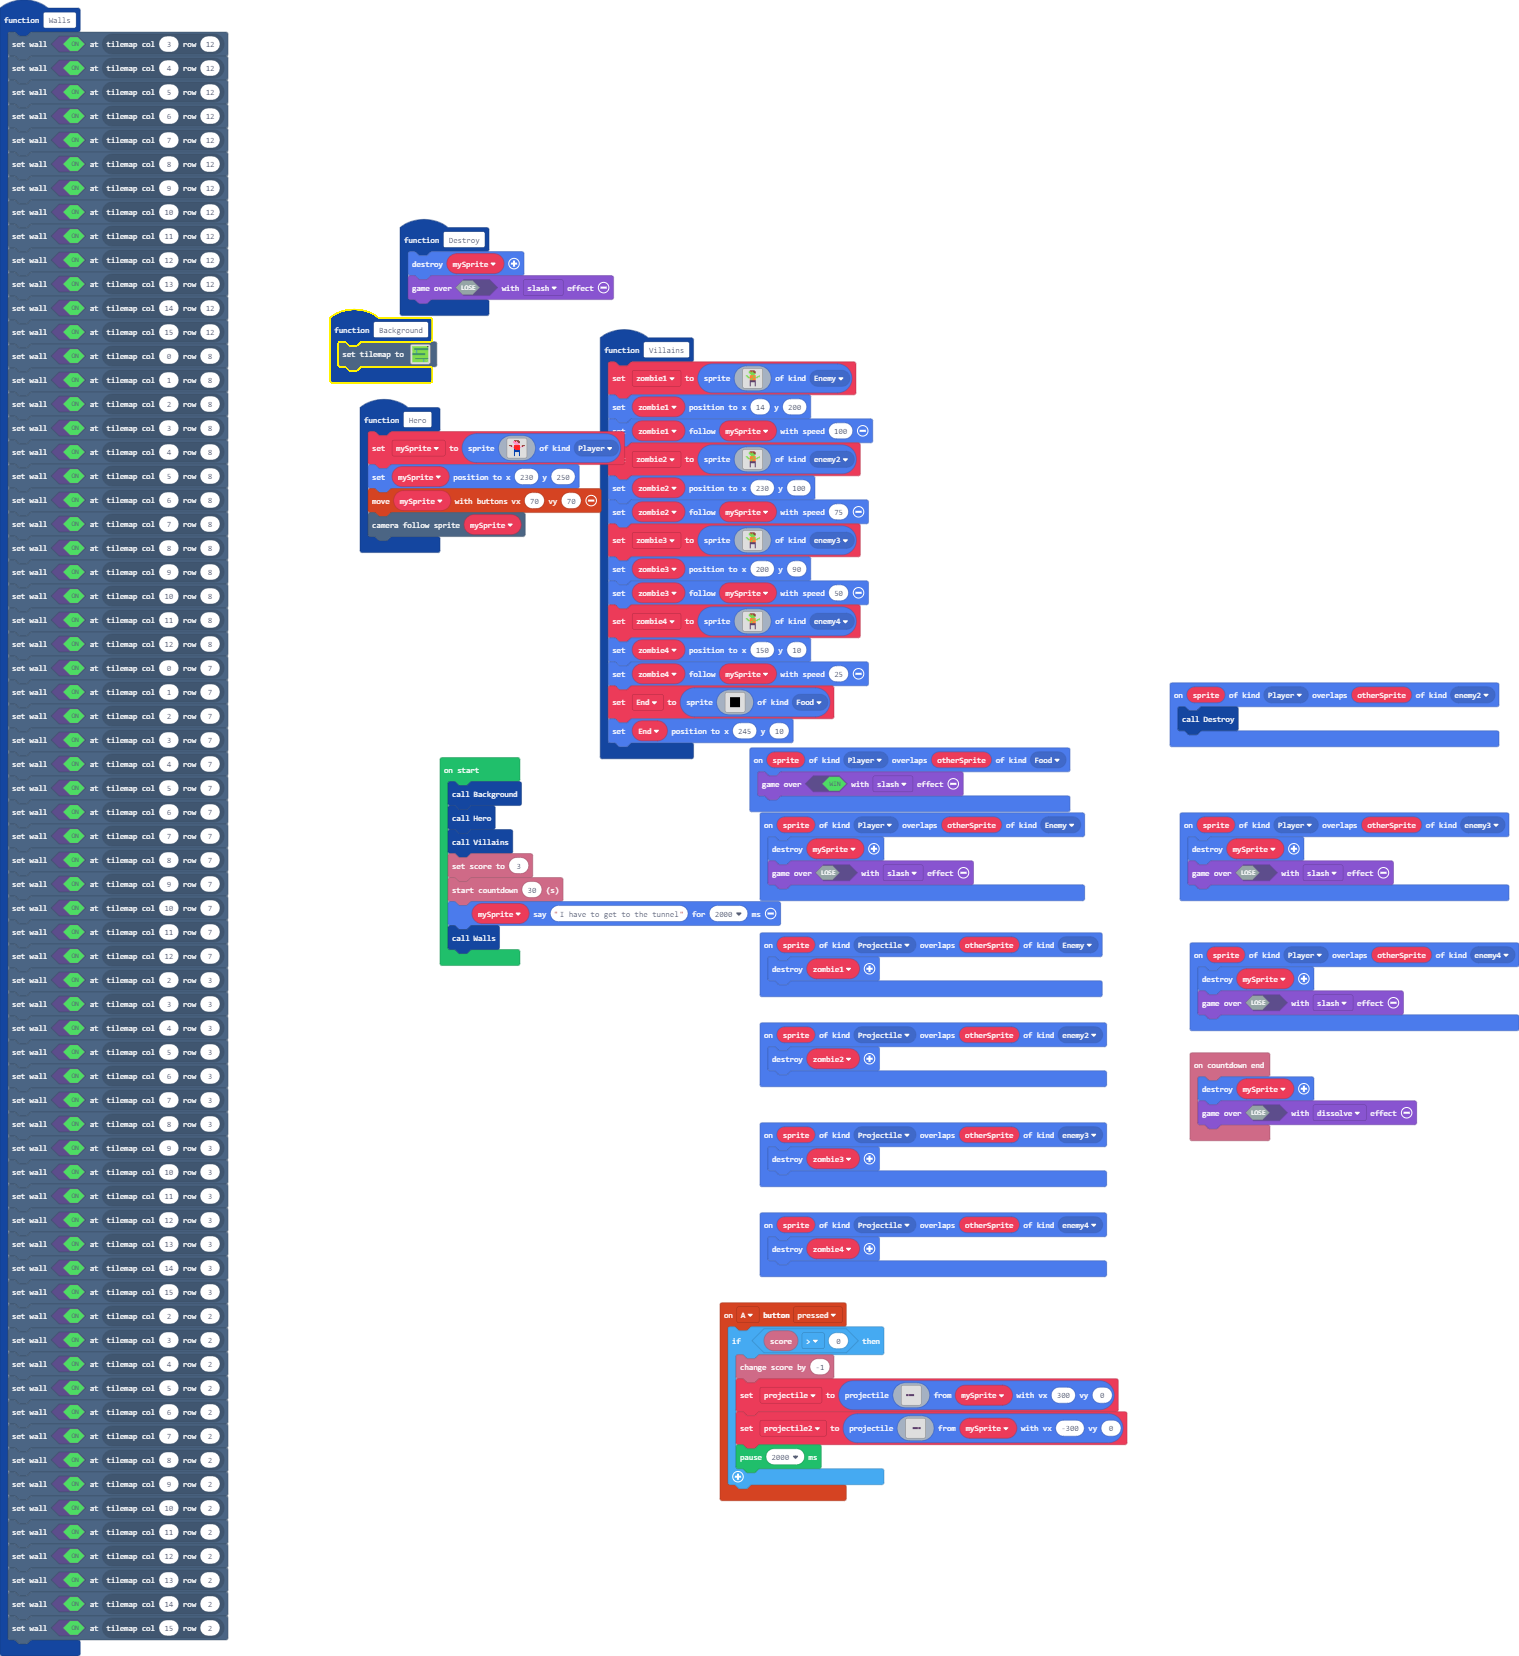
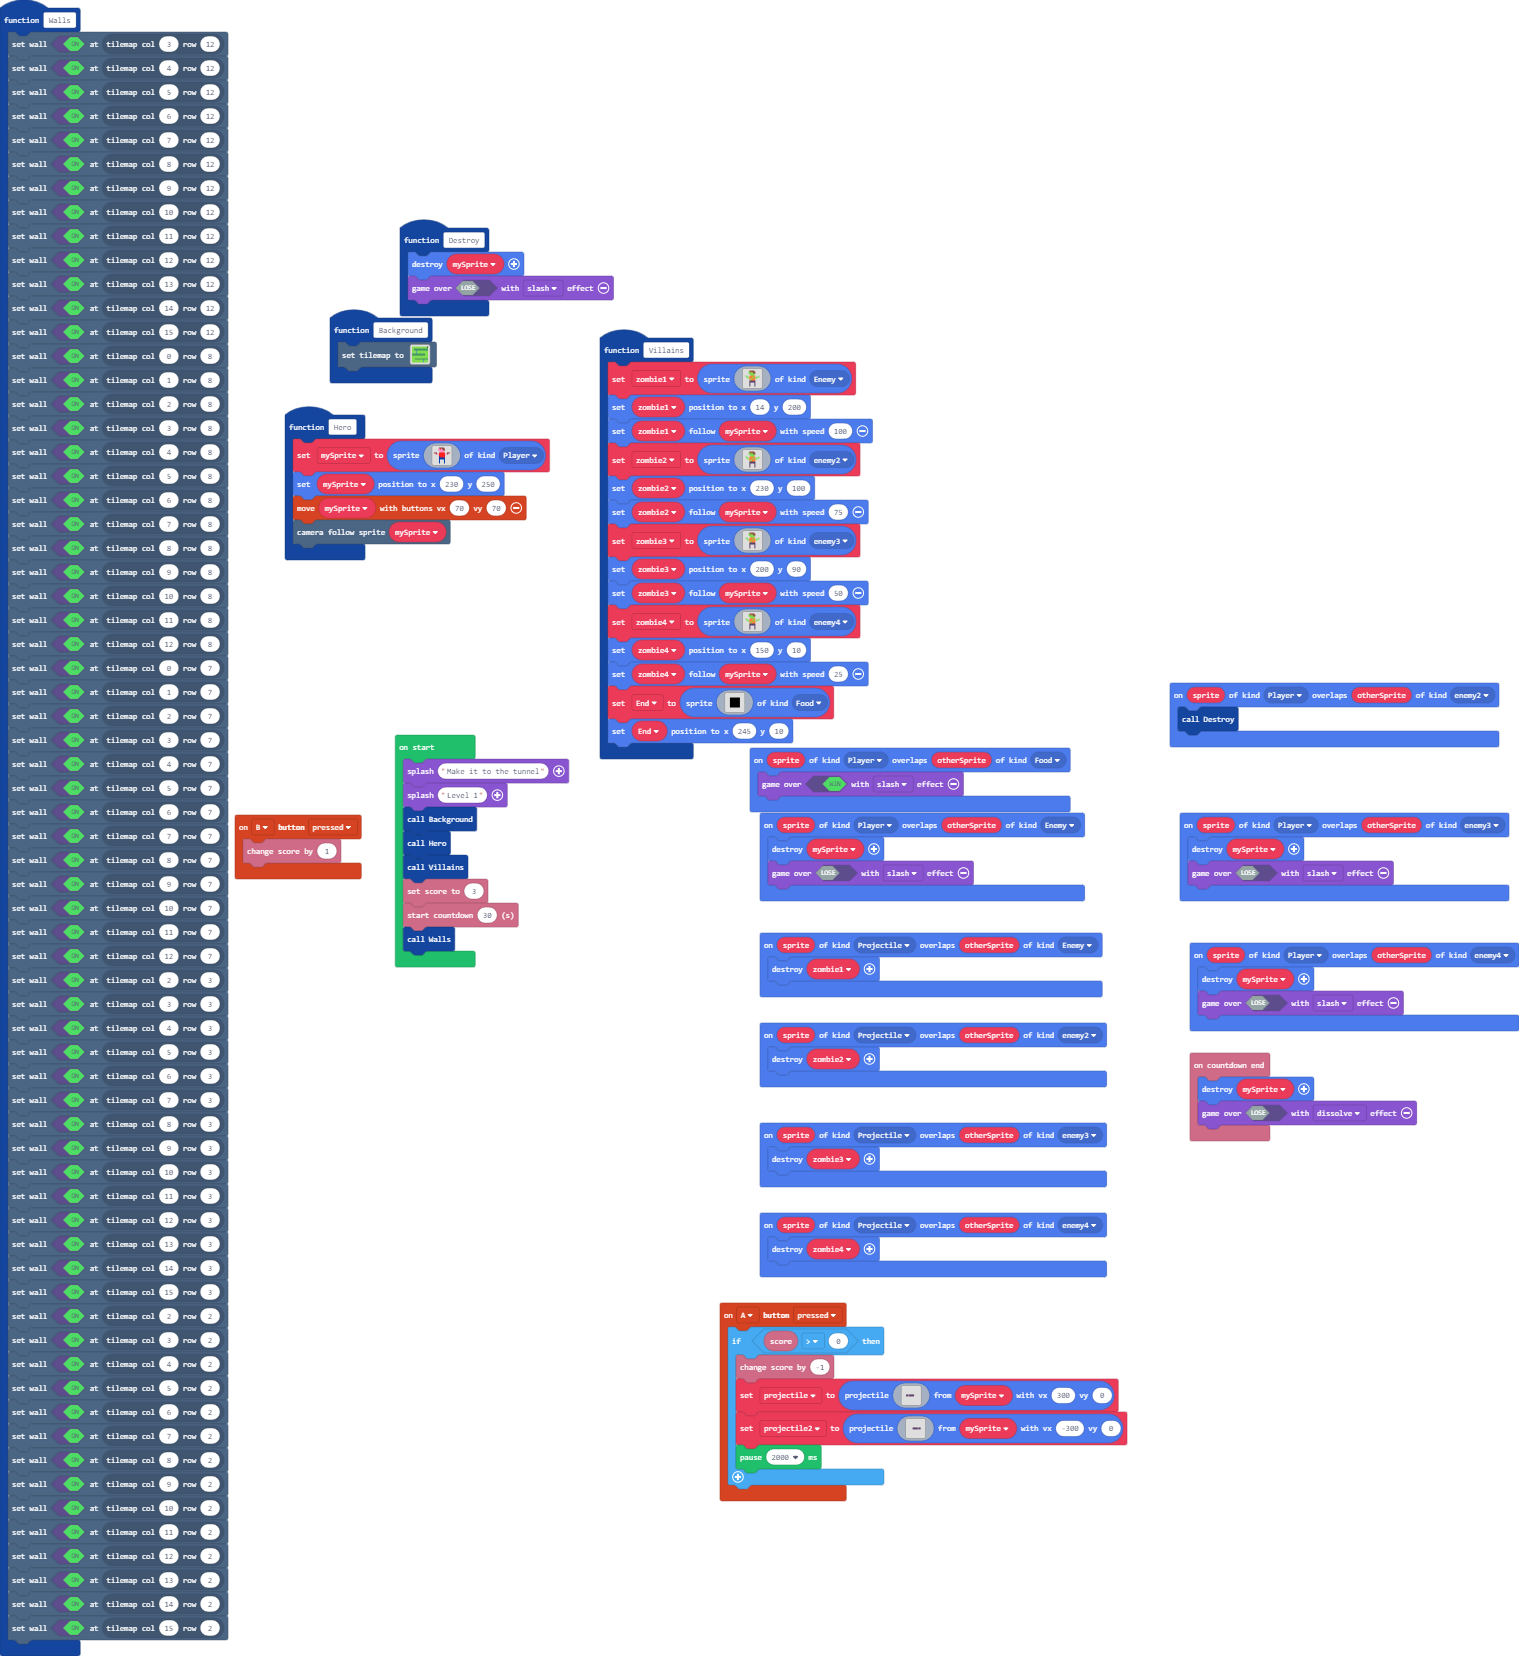
Update pxt.json, main.blocks, main.ts

diff --git a/main.ts b/main.ts
@@ -24,104 +24,17 @@ namespace myTiles {
 . . . . . . . . . . . . . . . . 
 `
 }
-function Walls () {
-    tiles.setWallAt(tiles.getTileLocation(3, 12), true)
-    tiles.setWallAt(tiles.getTileLocation(4, 12), true)
-    tiles.setWallAt(tiles.getTileLocation(5, 12), true)
-    tiles.setWallAt(tiles.getTileLocation(6, 12), true)
-    tiles.setWallAt(tiles.getTileLocation(7, 12), true)
-    tiles.setWallAt(tiles.getTileLocation(8, 12), true)
-    tiles.setWallAt(tiles.getTileLocation(9, 12), true)
-    tiles.setWallAt(tiles.getTileLocation(10, 12), true)
-    tiles.setWallAt(tiles.getTileLocation(11, 12), true)
-    tiles.setWallAt(tiles.getTileLocation(12, 12), true)
-    tiles.setWallAt(tiles.getTileLocation(13, 12), true)
-    tiles.setWallAt(tiles.getTileLocation(14, 12), true)
-    tiles.setWallAt(tiles.getTileLocation(15, 12), true)
-    tiles.setWallAt(tiles.getTileLocation(0, 8), true)
-    tiles.setWallAt(tiles.getTileLocation(1, 8), true)
-    tiles.setWallAt(tiles.getTileLocation(2, 8), true)
-    tiles.setWallAt(tiles.getTileLocation(3, 8), true)
-    tiles.setWallAt(tiles.getTileLocation(4, 8), true)
-    tiles.setWallAt(tiles.getTileLocation(5, 8), true)
-    tiles.setWallAt(tiles.getTileLocation(6, 8), true)
-    tiles.setWallAt(tiles.getTileLocation(7, 8), true)
-    tiles.setWallAt(tiles.getTileLocation(8, 8), true)
-    tiles.setWallAt(tiles.getTileLocation(9, 8), true)
-    tiles.setWallAt(tiles.getTileLocation(10, 8), true)
-    tiles.setWallAt(tiles.getTileLocation(11, 8), true)
-    tiles.setWallAt(tiles.getTileLocation(12, 8), true)
-    tiles.setWallAt(tiles.getTileLocation(0, 7), true)
-    tiles.setWallAt(tiles.getTileLocation(1, 7), true)
-    tiles.setWallAt(tiles.getTileLocation(2, 7), true)
-    tiles.setWallAt(tiles.getTileLocation(3, 7), true)
-    tiles.setWallAt(tiles.getTileLocation(4, 7), true)
-    tiles.setWallAt(tiles.getTileLocation(5, 7), true)
-    tiles.setWallAt(tiles.getTileLocation(6, 7), true)
-    tiles.setWallAt(tiles.getTileLocation(7, 7), true)
-    tiles.setWallAt(tiles.getTileLocation(8, 7), true)
-    tiles.setWallAt(tiles.getTileLocation(9, 7), true)
-    tiles.setWallAt(tiles.getTileLocation(10, 7), true)
-    tiles.setWallAt(tiles.getTileLocation(11, 7), true)
-    tiles.setWallAt(tiles.getTileLocation(12, 7), true)
-    tiles.setWallAt(tiles.getTileLocation(2, 3), true)
-    tiles.setWallAt(tiles.getTileLocation(3, 3), true)
-    tiles.setWallAt(tiles.getTileLocation(4, 3), true)
-    tiles.setWallAt(tiles.getTileLocation(5, 3), true)
-    tiles.setWallAt(tiles.getTileLocation(6, 3), true)
-    tiles.setWallAt(tiles.getTileLocation(7, 3), true)
-    tiles.setWallAt(tiles.getTileLocation(8, 3), true)
-    tiles.setWallAt(tiles.getTileLocation(9, 3), true)
-    tiles.setWallAt(tiles.getTileLocation(10, 3), true)
-    tiles.setWallAt(tiles.getTileLocation(11, 3), true)
-    tiles.setWallAt(tiles.getTileLocation(12, 3), true)
-    tiles.setWallAt(tiles.getTileLocation(13, 3), true)
-    tiles.setWallAt(tiles.getTileLocation(14, 3), true)
-    tiles.setWallAt(tiles.getTileLocation(15, 3), true)
-    tiles.setWallAt(tiles.getTileLocation(2, 2), true)
-    tiles.setWallAt(tiles.getTileLocation(3, 2), true)
-    tiles.setWallAt(tiles.getTileLocation(4, 2), true)
-    tiles.setWallAt(tiles.getTileLocation(5, 2), true)
-    tiles.setWallAt(tiles.getTileLocation(6, 2), true)
-    tiles.setWallAt(tiles.getTileLocation(7, 2), true)
-    tiles.setWallAt(tiles.getTileLocation(8, 2), true)
-    tiles.setWallAt(tiles.getTileLocation(9, 2), true)
-    tiles.setWallAt(tiles.getTileLocation(10, 2), true)
-    tiles.setWallAt(tiles.getTileLocation(11, 2), true)
-    tiles.setWallAt(tiles.getTileLocation(12, 2), true)
-    tiles.setWallAt(tiles.getTileLocation(13, 2), true)
-    tiles.setWallAt(tiles.getTileLocation(14, 2), true)
-    tiles.setWallAt(tiles.getTileLocation(15, 2), true)
-}
+sprites.onOverlap(SpriteKind.Player, SpriteKind.enemy4, function (sprite, otherSprite) {
+    mySprite.destroy()
+    game.over(false, effects.slash)
+})
 function Destroy () {
     mySprite.destroy()
     game.over(false, effects.slash)
 }
-function Background () {
-    tiles.setTilemap(tiles.createTilemap(
[1 lines of base64/hex data omitted]
-            img`
-. . . . . . . . . . . . . . . . 
-. . . . . . . . . . . . . . . . 
-. . . . . . . . . . . . . . . . 
-. . . . . . . . . . . . . . . . 
-. . . . . . . . . . . . . . . . 
-. . . . . . . . . . . . . . . . 
-. . . . . . . . . . . . . . . . 
-. . . . . . . . . . . . . . . . 
-. . . . . . . . . . . . . . . . 
-. . . . . . . . . . . . . . . . 
-. . . . . . . . . . . . . . . . 
-. . . . . . . . . . . . . . . . 
-. . . . . . . . . . . . . . . . 
-. . . . . . . . . . . . . . . . 
-. . . . . . . . . . . . . . . . 
-. . . . . . . . . . . . . . . . 
-`,
-            [myTiles.tile0,sprites.castle.tilePath5,sprites.castle.tilePath1,sprites.castle.tilePath4,sprites.castle.tilePath3,sprites.castle.tilePath9,sprites.castle.tilePath7,sprites.castle.tilePath8,sprites.castle.tilePath2,sprites.castle.tilePath6,sprites.builtin.forestTiles0,sprites.castle.tileDarkGrass2,sprites.castle.tileDarkGrass3,sprites.castle.tileDarkGrass1,sprites.castle.tileGrass1,sprites.castle.tileGrass2,sprites.castle.tileGrass3,sprites.builtin.forestTiles7,sprites.builtin.forestTiles15],
-            TileScale.Sixteen
-        ))
-}
+controller.B.onEvent(ControllerButtonEvent.Pressed, function () {
+    info.changeScoreBy(1)
+})
 function Villains () {
     zombie1 = sprites.create(img`
 . . . . . e e e e e . . . . . . 
@@ -223,33 +136,6 @@ function Villains () {
 `, SpriteKind.Food)
     End.setPosition(245, 10)
 }
-function Hero () {
-    mySprite = sprites.create(img`
-. . . . . e e e e e . . . . . . 
-. . . . 3 3 2 3 e e e . . . . . 
-. . . . 3 3 3 3 3 e e . . . . . 
-. . . . . 3 3 3 3 3 3 . . . . . 
-. . . . . . 3 3 3 3 . . . . . . 
-e e e d . 2 2 2 2 2 2 . d e e e 
-. 3 e 3 . 2 2 2 2 2 2 . 3 e 3 . 
-. . . . 3 2 2 2 2 2 2 3 . . . . 
-. . . . . 2 2 2 2 2 2 . . . . . 
-. . . . . 8 2 2 2 2 2 . . . . . 
-. . . . . 8 8 8 8 8 8 . . . . . 
-. . . . . 8 8 8 8 8 8 . . . . . 
-. . . . . 8 . . . . 8 . . . . . 
-. . . . . 8 . . . . 8 . . . . . 
-. . . . . 8 . . . . 8 . . . . . 
-. . . . . 8 . . . . 8 . . . . . 
-`, SpriteKind.Player)
-    mySprite.setPosition(230, 250)
-    controller.moveSprite(mySprite, 70, 70)
-    scene.cameraFollowSprite(mySprite)
-}
-sprites.onOverlap(SpriteKind.Player, SpriteKind.enemy4, function (sprite, otherSprite) {
-    mySprite.destroy()
-    game.over(false, effects.slash)
-})
 sprites.onOverlap(SpriteKind.Player, SpriteKind.Food, function (sprite, otherSprite) {
     game.over(true, effects.slash)
 })
@@ -265,6 +151,31 @@ sprites.onOverlap(SpriteKind.Player, SpriteKind.enemy2, function (sprite, otherS
 sprites.onOverlap(SpriteKind.Projectile, SpriteKind.Enemy, function (sprite, otherSprite) {
     zombie1.destroy()
 })
+function Background () {
+    tiles.setTilemap(tiles.createTilemap(
[1 lines of base64/hex data omitted]
+            img`
+. . . . . . . . . . . . . . . . 
+. . . . . . . . . . . . . . . . 
+. . . . . . . . . . . . . . . . 
+. . . . . . . . . . . . . . . . 
+. . . . . . . . . . . . . . . . 
+. . . . . . . . . . . . . . . . 
+. . . . . . . . . . . . . . . . 
+. . . . . . . . . . . . . . . . 
+. . . . . . . . . . . . . . . . 
+. . . . . . . . . . . . . . . . 
+. . . . . . . . . . . . . . . . 
+. . . . . . . . . . . . . . . . 
+. . . . . . . . . . . . . . . . 
+. . . . . . . . . . . . . . . . 
+. . . . . . . . . . . . . . . . 
+. . . . . . . . . . . . . . . . 
+`,
+            [myTiles.tile0,sprites.castle.tilePath5,sprites.castle.tilePath1,sprites.castle.tilePath4,sprites.castle.tilePath3,sprites.castle.tilePath9,sprites.castle.tilePath7,sprites.castle.tilePath8,sprites.castle.tilePath2,sprites.castle.tilePath6,sprites.builtin.forestTiles0,sprites.castle.tileDarkGrass2,sprites.castle.tileDarkGrass3,sprites.castle.tileDarkGrass1,sprites.castle.tileGrass1,sprites.castle.tileGrass2,sprites.castle.tileGrass3,sprites.builtin.forestTiles7,sprites.builtin.forestTiles15],
+            TileScale.Sixteen
+        ))
+}
 controller.A.onEvent(ControllerButtonEvent.Pressed, function () {
     if (info.score() > 0) {
         info.changeScoreBy(-1)
@@ -315,6 +226,98 @@ sprites.onOverlap(SpriteKind.Player, SpriteKind.enemy3, function (sprite, otherS
     mySprite.destroy()
     game.over(false, effects.slash)
 })
+function Walls () {
+    tiles.setWallAt(tiles.getTileLocation(3, 12), true)
+    tiles.setWallAt(tiles.getTileLocation(4, 12), true)
+    tiles.setWallAt(tiles.getTileLocation(5, 12), true)
+    tiles.setWallAt(tiles.getTileLocation(6, 12), true)
+    tiles.setWallAt(tiles.getTileLocation(7, 12), true)
+    tiles.setWallAt(tiles.getTileLocation(8, 12), true)
+    tiles.setWallAt(tiles.getTileLocation(9, 12), true)
+    tiles.setWallAt(tiles.getTileLocation(10, 12), true)
+    tiles.setWallAt(tiles.getTileLocation(11, 12), true)
+    tiles.setWallAt(tiles.getTileLocation(12, 12), true)
+    tiles.setWallAt(tiles.getTileLocation(13, 12), true)
+    tiles.setWallAt(tiles.getTileLocation(14, 12), true)
+    tiles.setWallAt(tiles.getTileLocation(15, 12), true)
+    tiles.setWallAt(tiles.getTileLocation(0, 8), true)
+    tiles.setWallAt(tiles.getTileLocation(1, 8), true)
+    tiles.setWallAt(tiles.getTileLocation(2, 8), true)
+    tiles.setWallAt(tiles.getTileLocation(3, 8), true)
+    tiles.setWallAt(tiles.getTileLocation(4, 8), true)
+    tiles.setWallAt(tiles.getTileLocation(5, 8), true)
+    tiles.setWallAt(tiles.getTileLocation(6, 8), true)
+    tiles.setWallAt(tiles.getTileLocation(7, 8), true)
+    tiles.setWallAt(tiles.getTileLocation(8, 8), true)
+    tiles.setWallAt(tiles.getTileLocation(9, 8), true)
+    tiles.setWallAt(tiles.getTileLocation(10, 8), true)
+    tiles.setWallAt(tiles.getTileLocation(11, 8), true)
+    tiles.setWallAt(tiles.getTileLocation(12, 8), true)
+    tiles.setWallAt(tiles.getTileLocation(0, 7), true)
+    tiles.setWallAt(tiles.getTileLocation(1, 7), true)
+    tiles.setWallAt(tiles.getTileLocation(2, 7), true)
+    tiles.setWallAt(tiles.getTileLocation(3, 7), true)
+    tiles.setWallAt(tiles.getTileLocation(4, 7), true)
+    tiles.setWallAt(tiles.getTileLocation(5, 7), true)
+    tiles.setWallAt(tiles.getTileLocation(6, 7), true)
+    tiles.setWallAt(tiles.getTileLocation(7, 7), true)
+    tiles.setWallAt(tiles.getTileLocation(8, 7), true)
+    tiles.setWallAt(tiles.getTileLocation(9, 7), true)
+    tiles.setWallAt(tiles.getTileLocation(10, 7), true)
+    tiles.setWallAt(tiles.getTileLocation(11, 7), true)
+    tiles.setWallAt(tiles.getTileLocation(12, 7), true)
+    tiles.setWallAt(tiles.getTileLocation(2, 3), true)
+    tiles.setWallAt(tiles.getTileLocation(3, 3), true)
+    tiles.setWallAt(tiles.getTileLocation(4, 3), true)
+    tiles.setWallAt(tiles.getTileLocation(5, 3), true)
+    tiles.setWallAt(tiles.getTileLocation(6, 3), true)
+    tiles.setWallAt(tiles.getTileLocation(7, 3), true)
+    tiles.setWallAt(tiles.getTileLocation(8, 3), true)
+    tiles.setWallAt(tiles.getTileLocation(9, 3), true)
+    tiles.setWallAt(tiles.getTileLocation(10, 3), true)
+    tiles.setWallAt(tiles.getTileLocation(11, 3), true)
+    tiles.setWallAt(tiles.getTileLocation(12, 3), true)
+    tiles.setWallAt(tiles.getTileLocation(13, 3), true)
+    tiles.setWallAt(tiles.getTileLocation(14, 3), true)
+    tiles.setWallAt(tiles.getTileLocation(15, 3), true)
+    tiles.setWallAt(tiles.getTileLocation(2, 2), true)
+    tiles.setWallAt(tiles.getTileLocation(3, 2), true)
+    tiles.setWallAt(tiles.getTileLocation(4, 2), true)
+    tiles.setWallAt(tiles.getTileLocation(5, 2), true)
+    tiles.setWallAt(tiles.getTileLocation(6, 2), true)
+    tiles.setWallAt(tiles.getTileLocation(7, 2), true)
+    tiles.setWallAt(tiles.getTileLocation(8, 2), true)
+    tiles.setWallAt(tiles.getTileLocation(9, 2), true)
+    tiles.setWallAt(tiles.getTileLocation(10, 2), true)
+    tiles.setWallAt(tiles.getTileLocation(11, 2), true)
+    tiles.setWallAt(tiles.getTileLocation(12, 2), true)
+    tiles.setWallAt(tiles.getTileLocation(13, 2), true)
+    tiles.setWallAt(tiles.getTileLocation(14, 2), true)
+    tiles.setWallAt(tiles.getTileLocation(15, 2), true)
+}
+function Hero () {
+    mySprite = sprites.create(img`
+. . . . . e e e e e . . . . . . 
+. . . . 3 3 2 3 e e e . . . . . 
+. . . . 3 3 3 3 3 e e . . . . . 
+. . . . . 3 3 3 3 3 3 . . . . . 
+. . . . . . 3 3 3 3 . . . . . . 
+e e e d . 2 2 2 2 2 2 . d e e e 
+. 3 e 3 . 2 2 2 2 2 2 . 3 e 3 . 
+. . . . 3 2 2 2 2 2 2 3 . . . . 
+. . . . . 2 2 2 2 2 2 . . . . . 
+. . . . . 8 2 2 2 2 2 . . . . . 
+. . . . . 8 8 8 8 8 8 . . . . . 
+. . . . . 8 8 8 8 8 8 . . . . . 
+. . . . . 8 . . . . 8 . . . . . 
+. . . . . 8 . . . . 8 . . . . . 
+. . . . . 8 . . . . 8 . . . . . 
+. . . . . 8 . . . . 8 . . . . . 
+`, SpriteKind.Player)
+    mySprite.setPosition(230, 250)
+    controller.moveSprite(mySprite, 70, 70)
+    scene.cameraFollowSprite(mySprite)
+}
 info.onCountdownEnd(function () {
     mySprite.destroy()
     game.over(false, effects.dissolve)
@@ -330,10 +333,11 @@ let zombie3: Sprite = null
 let zombie2: Sprite = null
 let zombie1: Sprite = null
 let mySprite: Sprite = null
+game.splash("Make it to the tunnel")
+game.splash("Level 1")
 Background()
 Hero()
 Villains()
 info.setScore(3)
 info.startCountdown(30)
-mySprite.say("I have to get to the tunnel", 2000)
 Walls()
